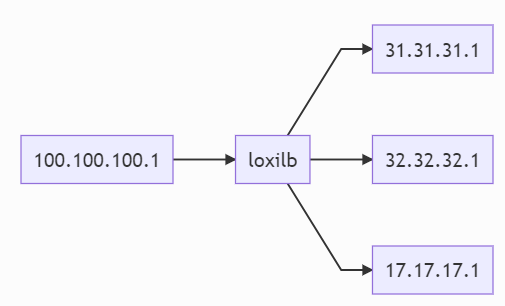
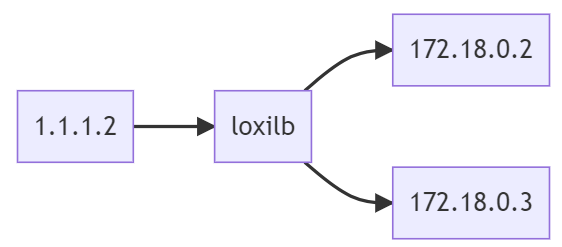
add description for steps

Changed region(s): [[0.0297, 0.0283, 0.9802, 0.9919]]

diff --git a/loxilb-ccm/step4.md b/loxilb-ccm/step4.md
@@ -1,23 +1,101 @@
 
 
-Make External Service as follows referencing [link](https://loxilb-io.github.io/loxilbdocs/ccm/) :
+we need to configure load-balancer CCM as follows referencing [link](https://loxilb-io.github.io/loxilbdocs/ccm/) :
 
 ```
-cat > loxi-service.yaml <<EOF
+echo '============= Deploy Loxi CCM ============'
+cat > loxi-ccm.yaml <<EOF
 ---
 apiVersion: v1
-kind: Service
+kind: ServiceAccount
 metadata:
-  name: nginx-service
+  name: loxi-cloud-controller-manager
+  namespace: kube-system
+---
+apiVersion: rbac.authorization.k8s.io/v1
+kind: ClusterRoleBinding
+metadata:
+  name: system:cloud-controller-manager
+roleRef:
+  apiGroup: rbac.authorization.k8s.io
+  kind: ClusterRole
+  name: cluster-admin
+subjects:
+  - kind: ServiceAccount
+    name: loxi-cloud-controller-manager
+    namespace: kube-system
+---
+apiVersion: v1
+kind: ConfigMap
+metadata:
+  name: loxilb-config
+  namespace: kube-system
+data:
+  apiServerURL: "http://172.18.0.254:11111"
+  externalIPcidr: 123.123.123.0/24
+---
+apiVersion: apps/v1
+kind: DaemonSet
+metadata:
+  labels:
+    k8s-app: loxi-cloud-controller-manager
+  name: loxi-cloud-controller-manager
+  namespace: kube-system
 spec:
-  type: LoadBalancer
   selector:
-    app.kubernetes.io/name: proxy
-  ports:
-  - name: name-of-service-port
-    protocol: TCP
-    port: 8888
-    targetPort: http-web-svc
+    matchLabels:
+      k8s-app: loxi-cloud-controller-manager
+  template:
+    metadata:
+      labels:
+        k8s-app: loxi-cloud-controller-manager
+    spec:
+      serviceAccountName: loxi-cloud-controller-manager
+      containers:
+        - name: loxi-cloud-controller-manager
+          imagePullPolicy: Always
+          image: loxilbio/loxi-ccm:beta
+          command:
+            - /bin/loxi-cloud-controller-manager
+          args:
+            - --v=1
+            - --cloud-provider=netlox
+            - --use-service-account-credentials
+            - --leader-elect-resource-name=loxi-cloud-controller-manager
+          env:
+            - name: LOXILB_API_SERVER
+              valueFrom:
+                configMapKeyRef:
+                  name: loxilb-config
+                  key: apiServerURL
+            - name: LOXILB_EXTERNAL_CIDR
+              valueFrom:
+                configMapKeyRef:
+                  name: loxilb-config
+                  key: externalIPcidr
+      tolerations:
+        - key: node.cloudprovider.kubernetes.io/uninitialized
+          value: "true"
+          effect: NoSchedule
+        - key: node-role.kubernetes.io/control-plane
+          effect: NoSchedule
+      nodeSelector:
+        kubernetes.io/hostname: k8s-playground-worker
 EOF
-kubectl create -f loxi-service.yaml
 ```
+
+Deploy CCM DaemonSet service through following command:
+
+```
+kubectl create -f loxi-ccm.yaml
+```
+
+You can check CCM daemon status trough following command:
+
+```
+kubectl get pods -n kubesystem | grep loxi
+kubectl get pods -A | grep loxi
+kube-system          loxi-cloud-controller-manager-wzjqz                    1/1     Running   0          12m
+```
+
+If you can search `loxi-cloud-controller-manager-xxx` , it's success

diff --git a/loxilb-ccm/step1.md b/loxilb-ccm/step1.md
@@ -1,85 +1,13 @@
+## Check Topology
+---
+
+![diagram](./assets/topology.png)
 
 
-we need to configure load-balancer CCM as follows referencing [link](https://loxilb-io.github.io/loxilbdocs/ccm/) :
+Check researchable like this:
 
 ```
-echo '============= Deploy Loxi CCM ============'
-cat > loxi-ccm.yaml <<EOF
----
-apiVersion: v1
-kind: ServiceAccount
-metadata:
-  name: loxi-cloud-controller-manager
-  namespace: kube-system
----
-apiVersion: rbac.authorization.k8s.io/v1
-kind: ClusterRoleBinding
-metadata:
-  name: system:cloud-controller-manager
-roleRef:
-  apiGroup: rbac.authorization.k8s.io
-  kind: ClusterRole
-  name: cluster-admin
-subjects:
-  - kind: ServiceAccount
-    name: loxi-cloud-controller-manager
-    namespace: kube-system
----
-apiVersion: v1
-kind: ConfigMap
-metadata:
-  name: loxilb-config
-  namespace: kube-system
-data:
-  apiServerURL: "http://172.18.0.254:11111"
-  externalIPcidr: 123.123.123.0/24
----
-apiVersion: apps/v1
-kind: DaemonSet
-metadata:
-  labels:
-    k8s-app: loxi-cloud-controller-manager
-  name: loxi-cloud-controller-manager
-  namespace: kube-system
-spec:
-  selector:
-    matchLabels:
-      k8s-app: loxi-cloud-controller-manager
-  template:
-    metadata:
-      labels:
-        k8s-app: loxi-cloud-controller-manager
-    spec:
-      serviceAccountName: loxi-cloud-controller-manager
-      containers:
-        - name: loxi-cloud-controller-manager
-          imagePullPolicy: Always
-          image: loxilbio/loxi-ccm:beta
-          command:
-            - /bin/loxi-cloud-controller-manager
-          args:
-            - --v=1
-            - --cloud-provider=netlox
-            - --use-service-account-credentials
-            - --leader-elect-resource-name=loxi-cloud-controller-manager
-          env:
-            - name: LOXILB_API_SERVER
-              valueFrom:
-                configMapKeyRef:
-                  name: loxilb-config
-                  key: apiServerURL
-            - name: LOXILB_EXTERNAL_CIDR
-              valueFrom:
-                configMapKeyRef:
-                  name: loxilb-config
-                  key: externalIPcidr
-      tolerations:
-        - key: node.cloudprovider.kubernetes.io/uninitialized
-          value: "true"
-          effect: NoSchedule
-        - key: node-role.kubernetes.io/control-plane
-          effect: NoSchedule
-      nodeSelector:
-        node-role.kubernetes.io/control-plane: ""
-EOF
-kubectl create -f loxi-ccm.yaml
+ip netns exec loxilb ping 1.1.1.2
+ip netns exec loxilb ping 172.18.0.2
+ip netns exec loxilb ping 172.18.0.3
+```

diff --git a/loxilb-ccm/step5.md b/loxilb-ccm/step5.md
@@ -1,6 +1,38 @@
 
 
-Make External Service as follows referencing [link](https://loxilb-io.github.io/loxilbdocs/ccm/) :
+Make pod for http service. We will use nginx application.
+
+Write Pod yaml file
+
+```
+cat > loxi-nginx.yaml <<EOF
+apiVersion: v1
+kind: Pod
+metadata:
+  name: nginx
+  labels:
+    app.kubernetes.io/name: proxy
+spec:
+  containers:
+  - name: nginx
+    image: nginx:latest
+    ports:
+      - containerPort: 80
+        name: http-web-svc
+EOF
+
+Deploy pod with following command:
+```
+kubectl create -f loxi-nginx.yaml
+```
+
+Check pod status with following command:
+```
+kubectl get pods | grep nginx
+nginx   1/1     Running   0          15m
+```
+
+Write Service yaml file
 
 ```
 cat > loxi-service.yaml <<EOF
@@ -19,5 +51,18 @@ spec:
     port: 8888
     targetPort: http-web-svc
 EOF
-kubectl create -f loxi-service.yaml
 ```
+
+Deploy pod with following command:
+
+```
+kubectl apply -f loxi-nginx.yaml
+```
+
+check service status with following command:
+```
+kubectl get svc | grep nginx
+nginx-service   LoadBalancer   10.96.229.183   123.123.123.1   8888:30846/TCP   15m
+```
+
+If you reach this stage, you completed whole configuration successfully. Congratulation !

diff --git a/loxilb-ccm/step3.md b/loxilb-ccm/step3.md
@@ -1,23 +1,6 @@
-
-
-Make External Service as follows referencing [link](https://loxilb-io.github.io/loxilbdocs/ccm/) :
+Compile & Build LoxiLB CLI from source codes
 
 ```
-cat > loxi-service.yaml <<EOF
----
-apiVersion: v1
-kind: Service
-metadata:
-  name: nginx-service
-spec:
-  type: LoadBalancer
-  selector:
-    app.kubernetes.io/name: proxy
-  ports:
-  - name: name-of-service-port
-    protocol: TCP
-    port: 8888
-    targetPort: http-web-svc
-EOF
-kubectl create -f loxi-service.yaml
+cd ~
+./loxilb_cli_install.sh
 ```

diff --git a/loxilb-ccm/step2.md b/loxilb-ccm/step2.md
@@ -1,20 +1,6 @@
-Make Pod First to use LoadBalancer service :
+Compile & Build LoxiLB from source codes
 
 ```
-cat > loxi-nginx.yaml <<EOF
-apiVersion: v1
-kind: Pod
-metadata:
-  name: nginx
-  labels:
-    app.kubernetes.io/name: proxy
-spec:
-  containers:
-  - name: nginx
-    image: nginx:latest
-    ports:
-      - containerPort: 80
-        name: http-web-svc
-EOF
-kubectl create -f loxi-nginx.yaml
+cd ~
+./loxilb_install.sh
 ```
